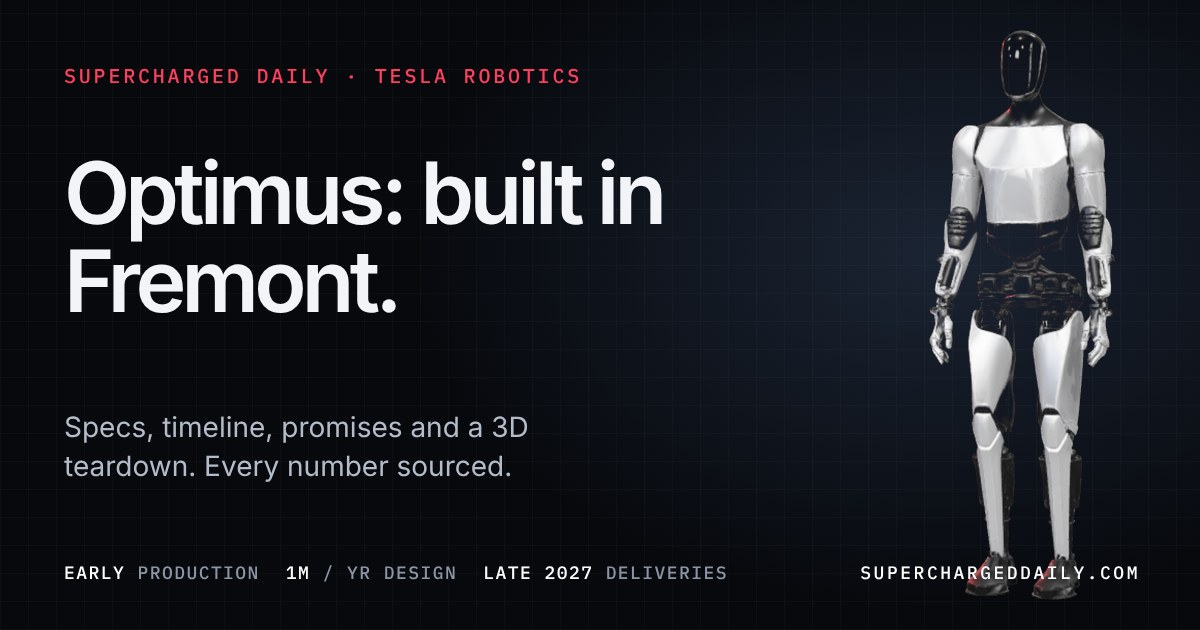
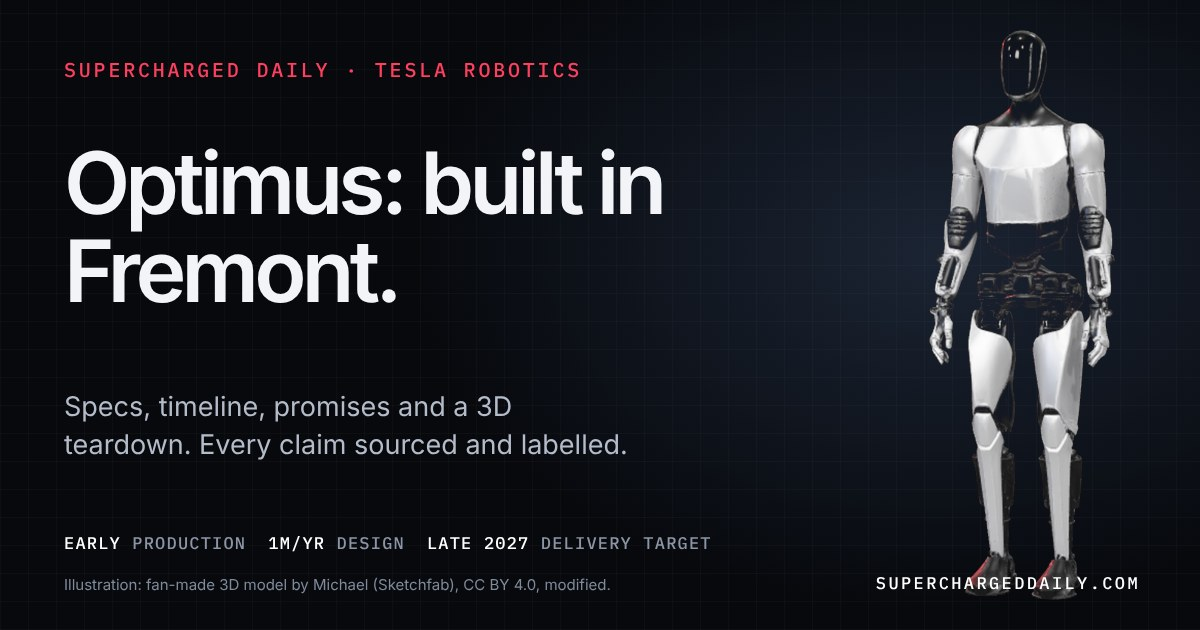
Optimus PR 3 review fixes: print-safe reveals, honest share card, site font token
- Scroll reveals are screen-only with a print override; printed page has all 3,752 words again.
- Share card labels the delivery date as a target, says the robot is a fan-made model with credit,
  uses the page's wording; template committed (scripts/optimus-og-card.html) and hash in provenance.
- Use the site --font token (drops a duplicate Inter Fallback face); drop the progress line
  (site already has a scroll beam; it overflowed the chapter bar).

Claude-Session: https://claude.ai/code/session_01CyAz74kttZ4YNjojC9Ss6K

diff --git a/optimus-studio.css b/optimus-studio.css
@@ -1,5 +1,5 @@
 /* Optimus: page-scoped studio, retaining shared site navigation and identity. */
-.os{--os-bg:#080a0e;--os-card:#10141c;--os-text:#f3f4f7;--os-muted:#a6aeba;--os-line:#29303b;--os-red:#ff3e60;--os-mono:'IBM Plex Mono',monospace;color:var(--os-text);background:var(--os-bg);font-family:Inter,"Inter Fallback",sans-serif;margin:24px auto 0;max-width:1440px;border:1px solid var(--os-line);border-radius:26px;overflow:clip;line-height:1.65}.os *{box-sizing:border-box}.os [hidden]{display:none!important}.os a{color:inherit;text-underline-offset:4px}.os button,.os input,.os select{font:inherit}.os button,.os select,.os summary{cursor:pointer}.os button{color:inherit}.os :is(a,button,input,select,summary):focus-visible{outline:3px solid #ff7992;outline-offset:5px}.os p{margin:0 0 1.1em}.os h1,.os h2,.os h3,.os h4{color:inherit;margin:0;font-family:Inter,"Inter Fallback",sans-serif;letter-spacing:-.045em;line-height:1.1}.os h2{font-size:clamp(2rem,4.5vw,4.2rem);font-weight:600;max-width:950px}.os h3{font-size:clamp(1.2rem,2.6vw,2rem);font-weight:600}.os h4{font-size:1rem;letter-spacing:-.015em;margin:26px 0 9px}.os p{color:var(--os-muted)}.os-kicker{font-family:var(--os-mono);font-size:.68rem;line-height:1.8;letter-spacing:.11em;text-transform:uppercase;color:var(--os-red)!important}.os-caption{font-size:.76rem;line-height:1.7;color:var(--os-muted)}.os picture{display:block}.os img{display:block;width:100%;height:auto}.os-section{padding:92px 6%;scroll-margin-top:100px;border-bottom:1px solid var(--os-line)}.os-section-head{margin-bottom:44px}.os-section-head>p:last-child{max-width:740px;margin-top:23px;font-size:1.03rem;line-height:1.8}.os-hero{min-height:780px;position:relative;padding:140px 6% 38px;isolation:isolate;background:#070a10;overflow:hidden}.os-hero-type{position:absolute;top:-.03em;left:4.8%;right:4.8%;text-align:center;font-size:clamp(5rem,16vw,220px);font-weight:600;line-height:1.08;letter-spacing:.015em;color:transparent;-webkit-text-stroke:2px #5c6573;opacity:1;z-index:-1}.os-hero-copy{position:relative;z-index:2;width:52%;max-width:610px;padding-top:88px}.os-hero h1{font-size:clamp(2.6rem,5.3vw,5rem);font-weight:500;line-height:1.05;letter-spacing:-.065em}.os-intro{max-width:460px;font-size:1.02rem;line-height:1.8;margin-top:26px!important}.os-actions{display:flex;align-items:center;gap:24px;flex-wrap:wrap;margin:30px 0}.os-button{background:#d6153d;color:#fff!important;display:inline-flex;justify-content:space-between;align-items:center;gap:24px;min-height:50px;padding:12px 20px;border-radius:8px;text-decoration:none;font-size:.84rem;font-weight:600;border:1px solid #f64667;transition:background .2s,transform .2s}.os-button:hover{background:#c70d33;transform:translateY(-2px)}.os-text-link{font-size:.84rem;font-weight:500}.os-hero-robot{position:absolute;z-index:0;right:1%;top:160px;width:48%;height:570px;margin:0}.os-hero-robot picture,.os-hero-robot img{height:100%}.os-hero-robot img{object-fit:cover;mix-blend-mode:lighten}.os-hero-robot figcaption{font-family:var(--os-mono);font-size:.59rem;line-height:1.5;color:#adb5c1;position:absolute;bottom:0;right:0;max-width:190px}.os-hero-bottom{display:flex;justify-content:space-between;align-items:end;margin-top:80px;position:relative;z-index:2;font-family:var(--os-mono);font-size:.62rem;line-height:1.6;color:#8f99a8;letter-spacing:.04em}.os-hero-bottom>a{display:grid;place-items:center;border:1px solid #414956;border-radius:50%;width:42px;height:42px;text-decoration:none;font-size:1.5rem}.os-hero-bottom>span:last-child{text-align:right}.os-chapters{display:flex;position:sticky;top:78px;z-index:8;background:#0d1119f5;backdrop-filter:blur(16px);border-block:1px solid var(--os-line);overflow-x:auto;padding:0 5%;scrollbar-width:thin}.os-chapters a{flex:1;white-space:nowrap;padding:22px 13px;text-align:center;text-decoration:none;font-size:.77rem;border-bottom:2px solid transparent}.os-chapters a:hover,.os-chapters a[aria-current]{border-color:var(--os-red);color:#fff}.os-chapters small{font-family:var(--os-mono);font-size:.58rem;color:var(--os-muted);margin-right:6px}.os-refs{font-size:.7rem!important;line-height:1.8;margin-top:20px!important}.os-refs a{color:#b9c2d0}.os-anatomy{display:grid;grid-template-columns:1fr 1.1fr;border:1px solid var(--os-line);border-radius:18px;background:linear-gradient(130deg,#141b26,#0c1017 50%);overflow:hidden}.os-anatomy-visual{position:relative;min-height:780px;align-self:start}.os-anatomy-visual picture,.os-anatomy-visual img{height:740px}.os-anatomy-visual img{object-fit:cover;mix-blend-mode:lighten}.os-anatomy-visual>.os-caption{position:absolute;bottom:6px;left:26px;right:26px;font-size:.65rem}.os-hotspots{position:absolute;inset:0 0 40px}.os-hotspots button{position:absolute;left:var(--x);top:var(--y);transform:translate(-50%,-50%);width:44px;height:44px;background:#171e2b;border:1px solid #b7c2d4;border-radius:50%;font-family:var(--os-mono);font-size:.75rem;box-shadow:0 0 0 6px #7b8ca022}.os-hotspots button[aria-pressed=true]{background:#e92148;border-color:#ff9db0;box-shadow:0 0 0 8px #f82b4d22}.os-anatomy-content{padding:28px;border-left:1px solid var(--os-line)}.os-system-tabs{display:grid;grid-template-columns:repeat(3,1fr);gap:7px;padding-bottom:32px}.os-system-tabs button{display:grid;gap:8px;text-align:left;border:1px solid #333d4d;background:#131a25;border-radius:7px;padding:12px;min-height:72px;font-size:.7rem}.os-system-tabs small{font-family:var(--os-mono);font-size:.6rem;color:#8e9aac}.os-system-tabs button[aria-pressed=true]{border-color:#ff5170;background:#301923}.os-system-panel{padding:12px 6px 20px}.os-system-panel h3{font-size:2.2rem;max-width:400px}.os-system-panel p{font-size:.88rem;line-height:1.8}.os-system-panel .os-lead{font-size:1rem;margin-top:18px;color:#d4d9e2}.os-boundary{border-left:2px solid var(--os-red);padding:13px 17px;margin-top:25px;background:#181d27}.os-boundary strong{font-size:.75rem}.os-boundary p{font-size:.75rem;margin:10px 0 0}.os-hand-section{background:radial-gradient(ellipse at 30% 60%,#1b222e,#0a0d13 65%)}.os-hand-grid{display:grid;grid-template-columns:1.15fr 1fr;gap:70px;align-items:center}.os-hand-art svg{display:block;width:100%;height:auto}.os-hand-art .os-caption{margin:15px 0 0 6%;font-size:.65rem}.os-hand-copy article{padding:24px 0;border-top:1px solid var(--os-line)}.os-hand-copy article>span{font-family:var(--os-mono);font-size:.65rem;color:var(--os-red)}.os-hand-copy article h3{font-size:1.5rem;margin:10px 0 13px}.os-hand-copy article p{font-size:.87rem}.os-cinema{display:grid;grid-template-columns:1.4fr 1fr;border:1px solid var(--os-line);border-radius:14px;overflow:hidden;margin-bottom:15px}.os-film-stage{position:relative;min-height:570px;background:#07090d}.os-film-cover{position:relative;height:100%;min-height:570px}.os-film-cover picture,.os-film-cover img{position:absolute;inset:0;height:100%;width:100%;object-fit:cover;object-position:50% 40%}.os-film-cover:after{content:'';position:absolute;inset:0;background:linear-gradient(0deg,#080c15 0%,#080c1580 50%,#080c1522 100%)}.os-film-cover>div{position:absolute;z-index:1;left:35px;right:30px;bottom:35px}.os-film-cover h3{font-size:2.7rem;margin-bottom:24px}.os-play{display:grid;place-items:center;width:74px;height:74px;border-radius:50%;border:1px solid #ffffff80;background:#ffffff20;backdrop-filter:blur(10px);font-size:1.3rem;margin-bottom:26px}.os-film-list{background:#131923;padding:15px 28px}.os-film-list article{padding:24px 0;border-bottom:1px solid var(--os-line)}.os-film-list article:last-child{border:0}.os-film-list button{background:transparent;border:0;text-align:left;width:100%;font-size:1.1rem;line-height:1.4;min-height:44px;padding:0 0 12px;display:grid;grid-template-columns:30px 1fr;gap:5px}.os-film-list button span{font-family:var(--os-mono);font-size:.66rem;padding-top:6px;color:#929fb1}.os-film-list button small{grid-column:2;font-family:var(--os-mono);color:#8793a7;font-size:.65rem}.os-film-list button[aria-pressed=true]{color:#ff7791}.os-film-list p{font-size:.78rem;margin:12px 0}.os-film-list .os-caption{font-size:.69rem}.os-film-stage iframe{position:absolute;inset:0;width:100%;height:100%;border:0}.os-film-stage.os-playing{min-height:400px}.os-reliability{background:linear-gradient(120deg,#1b1220,#101620)}.os-reliability-grid{display:grid;grid-template-columns:1.3fr 1fr;gap:70px}.os-calculator-controls{display:flex;gap:18px}.os label{font-family:var(--os-mono);font-size:.65rem;color:#ccd3df;display:grid;gap:8px}.os select,.os input{width:100%;min-height:48px;background:#101722;color:#eef1f6;border:1px solid #495468;border-radius:7px;padding:11px 13px;min-width:0}.os-result{display:flex;gap:25px;align-items:center;margin:28px 0!important}.os-result output{font-size:clamp(3.2rem,6vw,5rem);color:#fff;line-height:1;letter-spacing:-.07em}.os-result span{font-size:.8rem;max-width:130px}.os-sequence{display:flex;gap:3px;min-height:50px;margin-bottom:18px}.os-sequence i{flex:1;background:rgba(255,62,96,var(--strength));border-radius:3px}.os-reliability-grid>div:last-child h3{margin-bottom:25px;font-size:1.8rem}.os-reliability-grid>div:last-child p{font-size:.93rem}.os-gallery{display:grid;grid-template-columns:repeat(2,1fr);gap:45px 26px}.os-gallery figure{margin:0;min-width:0}.os-gallery figure>a{display:block;position:relative;overflow:hidden;border:1px solid var(--os-line);border-radius:12px;background:#11151e}.os-gallery img{height:470px;object-fit:cover;transition:transform .6s}.os-gallery figure:first-child img{object-fit:cover}.os-gallery figure:nth-child(2) img{object-fit:contain}.os-gallery a:hover img{transform:scale(1.025)}.os-gallery figure>a>span{position:absolute;right:18px;top:18px;width:38px;height:38px;display:grid;place-items:center;border-radius:50%;background:#0b111cbb;border:1px solid #b4becc}.os-gallery figcaption{padding:20px 5px 0}.os-gallery h3{font-size:1.2rem;margin-bottom:12px}.os-gallery p{font-size:.8rem}.os-gallery .os-caption{font-size:.68rem}.os-filters{display:grid;grid-template-columns:2fr 1fr auto;gap:16px;align-items:end;margin-bottom:20px}.os-small-button{background:#192230;border:1px solid #495468;padding:10px 18px;border-radius:7px;min-height:48px;font-size:.75rem!important}.os-demo{border-top:1px solid var(--os-line);scroll-margin-top:160px}.os-demo:last-child{border-bottom:1px solid var(--os-line)}.os-demo>summary{display:grid;grid-template-columns:95px 1fr 180px;gap:24px;align-items:center;padding:27px 34px 27px 0;position:relative;list-style:none}.os summary::-webkit-details-marker{display:none}.os-demo>summary:after,.os-faq summary:after{content:'+';position:absolute;right:5px;color:var(--os-red);font-size:1.4rem;font-weight:400}.os details[open]>summary:after{content:'−'}.os-demo time{font-family:var(--os-mono);font-size:.67rem;color:#aab5c6}.os-demo summary strong{font-size:1rem;font-weight:500;letter-spacing:-.02em}.os-demo summary small{display:block;font-size:.73rem;color:var(--os-muted);margin-top:6px}.os-tag{border:1px solid #4b5668;border-radius:6px;padding:7px 10px;font-family:var(--os-mono);font-size:.58rem;line-height:1.7}.os-control-company_autonomy{color:#a5dcd1;border-color:#355d5c}.os-control-human_assistance,.os-control-mixed_reported{color:#f1c789;border-color:#655239}.os-demo-body{display:grid;grid-template-columns:1fr 1fr;gap:20px 40px;padding:0 35px 26px 119px}.os-demo-body h3{font-size:.78rem;letter-spacing:0;margin:4px 0 12px}.os-demo-body p{font-size:.85rem}.os-demo-body .os-refs{grid-column:1/-1}.os-no-results{padding:30px;background:#161c26;border-radius:8px}.os-faq details{border-top:1px solid var(--os-line)}.os-faq summary{list-style:none;font-size:1.12rem;padding:27px 40px 27px 0;position:relative;letter-spacing:-.02em}.os-faq details>div{max-width:850px;padding:0 0 25px}.os-faq details p{font-size:.92rem}.os-sources{border-bottom:0;padding-bottom:0}.os-sources>details{border-block:1px solid var(--os-line);padding:25px 0}.os-sources>details>summary{font-family:var(--os-mono);font-size:.8rem}.os-sources ol{display:grid;grid-template-columns:1fr 1fr;gap:35px;padding:35px 0 0;list-style:none}.os-sources li small{color:var(--os-red);font-family:var(--os-mono);font-size:.61rem;text-transform:uppercase}.os-sources li h3{font-size:.93rem;line-height:1.6;margin:8px 0}.os-sources li p{font-size:.76rem}.os-end{padding:75px 0 80px}.os-end h2{font-size:2.9rem}.os-lightbox{width:min(1150px,95vw);max-height:94dvh;overflow:auto;background:#0c1119;color:#fff;border:1px solid #4c5668;border-radius:14px;padding:24px}.os-lightbox::backdrop{background:#000d;backdrop-filter:blur(12px)}.os-lightbox button{min-height:44px;border:1px solid #4c5668;background:#18212f;border-radius:8px;padding:8px 15px;color:#fff}.os-lightbox>button{display:block;margin-left:auto}.os-lightbox-image img{height:66dvh;object-fit:contain;width:100%}.os-lightbox-caption{font-size:.8rem!important;max-width:900px}.os-lightbox>div:last-child{display:flex;justify-content:space-between;gap:15px}.os-enhanced .os-film-fallback{display:none}
+.os{--os-bg:#080a0e;--os-card:#10141c;--os-text:#f3f4f7;--os-muted:#a6aeba;--os-line:#29303b;--os-red:#ff3e60;--os-mono:'IBM Plex Mono',monospace;color:var(--os-text);background:var(--os-bg);font-family:var(--font);margin:24px auto 0;max-width:1440px;border:1px solid var(--os-line);border-radius:26px;overflow:clip;line-height:1.65}.os *{box-sizing:border-box}.os [hidden]{display:none!important}.os a{color:inherit;text-underline-offset:4px}.os button,.os input,.os select{font:inherit}.os button,.os select,.os summary{cursor:pointer}.os button{color:inherit}.os :is(a,button,input,select,summary):focus-visible{outline:3px solid #ff7992;outline-offset:5px}.os p{margin:0 0 1.1em}.os h1,.os h2,.os h3,.os h4{color:inherit;margin:0;font-family:var(--font);letter-spacing:-.045em;line-height:1.1}.os h2{font-size:clamp(2rem,4.5vw,4.2rem);font-weight:600;max-width:950px}.os h3{font-size:clamp(1.2rem,2.6vw,2rem);font-weight:600}.os h4{font-size:1rem;letter-spacing:-.015em;margin:26px 0 9px}.os p{color:var(--os-muted)}.os-kicker{font-family:var(--os-mono);font-size:.68rem;line-height:1.8;letter-spacing:.11em;text-transform:uppercase;color:var(--os-red)!important}.os-caption{font-size:.76rem;line-height:1.7;color:var(--os-muted)}.os picture{display:block}.os img{display:block;width:100%;height:auto}.os-section{padding:92px 6%;scroll-margin-top:100px;border-bottom:1px solid var(--os-line)}.os-section-head{margin-bottom:44px}.os-section-head>p:last-child{max-width:740px;margin-top:23px;font-size:1.03rem;line-height:1.8}.os-hero{min-height:780px;position:relative;padding:140px 6% 38px;isolation:isolate;background:#070a10;overflow:hidden}.os-hero-type{position:absolute;top:-.03em;left:4.8%;right:4.8%;text-align:center;font-size:clamp(5rem,16vw,220px);font-weight:600;line-height:1.08;letter-spacing:.015em;color:transparent;-webkit-text-stroke:2px #5c6573;opacity:1;z-index:-1}.os-hero-copy{position:relative;z-index:2;width:52%;max-width:610px;padding-top:88px}.os-hero h1{font-size:clamp(2.6rem,5.3vw,5rem);font-weight:500;line-height:1.05;letter-spacing:-.065em}.os-intro{max-width:460px;font-size:1.02rem;line-height:1.8;margin-top:26px!important}.os-actions{display:flex;align-items:center;gap:24px;flex-wrap:wrap;margin:30px 0}.os-button{background:#d6153d;color:#fff!important;display:inline-flex;justify-content:space-between;align-items:center;gap:24px;min-height:50px;padding:12px 20px;border-radius:8px;text-decoration:none;font-size:.84rem;font-weight:600;border:1px solid #f64667;transition:background .2s,transform .2s}.os-button:hover{background:#c70d33;transform:translateY(-2px)}.os-text-link{font-size:.84rem;font-weight:500}.os-hero-robot{position:absolute;z-index:0;right:1%;top:160px;width:48%;height:570px;margin:0}.os-hero-robot picture,.os-hero-robot img{height:100%}.os-hero-robot img{object-fit:cover;mix-blend-mode:lighten}.os-hero-robot figcaption{font-family:var(--os-mono);font-size:.59rem;line-height:1.5;color:#adb5c1;position:absolute;bottom:0;right:0;max-width:190px}.os-hero-bottom{display:flex;justify-content:space-between;align-items:end;margin-top:80px;position:relative;z-index:2;font-family:var(--os-mono);font-size:.62rem;line-height:1.6;color:#8f99a8;letter-spacing:.04em}.os-hero-bottom>a{display:grid;place-items:center;border:1px solid #414956;border-radius:50%;width:42px;height:42px;text-decoration:none;font-size:1.5rem}.os-hero-bottom>span:last-child{text-align:right}.os-chapters{display:flex;position:sticky;top:78px;z-index:8;background:#0d1119f5;backdrop-filter:blur(16px);border-block:1px solid var(--os-line);overflow-x:auto;padding:0 5%;scrollbar-width:thin}.os-chapters a{flex:1;white-space:nowrap;padding:22px 13px;text-align:center;text-decoration:none;font-size:.77rem;border-bottom:2px solid transparent}.os-chapters a:hover,.os-chapters a[aria-current]{border-color:var(--os-red);color:#fff}.os-chapters small{font-family:var(--os-mono);font-size:.58rem;color:var(--os-muted);margin-right:6px}.os-refs{font-size:.7rem!important;line-height:1.8;margin-top:20px!important}.os-refs a{color:#b9c2d0}.os-anatomy{display:grid;grid-template-columns:1fr 1.1fr;border:1px solid var(--os-line);border-radius:18px;background:linear-gradient(130deg,#141b26,#0c1017 50%);overflow:hidden}.os-anatomy-visual{position:relative;min-height:780px;align-self:start}.os-anatomy-visual picture,.os-anatomy-visual img{height:740px}.os-anatomy-visual img{object-fit:cover;mix-blend-mode:lighten}.os-anatomy-visual>.os-caption{position:absolute;bottom:6px;left:26px;right:26px;font-size:.65rem}.os-hotspots{position:absolute;inset:0 0 40px}.os-hotspots button{position:absolute;left:var(--x);top:var(--y);transform:translate(-50%,-50%);width:44px;height:44px;background:#171e2b;border:1px solid #b7c2d4;border-radius:50%;font-family:var(--os-mono);font-size:.75rem;box-shadow:0 0 0 6px #7b8ca022}.os-hotspots button[aria-pressed=true]{background:#e92148;border-color:#ff9db0;box-shadow:0 0 0 8px #f82b4d22}.os-anatomy-content{padding:28px;border-left:1px solid var(--os-line)}.os-system-tabs{display:grid;grid-template-columns:repeat(3,1fr);gap:7px;padding-bottom:32px}.os-system-tabs button{display:grid;gap:8px;text-align:left;border:1px solid #333d4d;background:#131a25;border-radius:7px;padding:12px;min-height:72px;font-size:.7rem}.os-system-tabs small{font-family:var(--os-mono);font-size:.6rem;color:#8e9aac}.os-system-tabs button[aria-pressed=true]{border-color:#ff5170;background:#301923}.os-system-panel{padding:12px 6px 20px}.os-system-panel h3{font-size:2.2rem;max-width:400px}.os-system-panel p{font-size:.88rem;line-height:1.8}.os-system-panel .os-lead{font-size:1rem;margin-top:18px;color:#d4d9e2}.os-boundary{border-left:2px solid var(--os-red);padding:13px 17px;margin-top:25px;background:#181d27}.os-boundary strong{font-size:.75rem}.os-boundary p{font-size:.75rem;margin:10px 0 0}.os-hand-section{background:radial-gradient(ellipse at 30% 60%,#1b222e,#0a0d13 65%)}.os-hand-grid{display:grid;grid-template-columns:1.15fr 1fr;gap:70px;align-items:center}.os-hand-art svg{display:block;width:100%;height:auto}.os-hand-art .os-caption{margin:15px 0 0 6%;font-size:.65rem}.os-hand-copy article{padding:24px 0;border-top:1px solid var(--os-line)}.os-hand-copy article>span{font-family:var(--os-mono);font-size:.65rem;color:var(--os-red)}.os-hand-copy article h3{font-size:1.5rem;margin:10px 0 13px}.os-hand-copy article p{font-size:.87rem}.os-cinema{display:grid;grid-template-columns:1.4fr 1fr;border:1px solid var(--os-line);border-radius:14px;overflow:hidden;margin-bottom:15px}.os-film-stage{position:relative;min-height:570px;background:#07090d}.os-film-cover{position:relative;height:100%;min-height:570px}.os-film-cover picture,.os-film-cover img{position:absolute;inset:0;height:100%;width:100%;object-fit:cover;object-position:50% 40%}.os-film-cover:after{content:'';position:absolute;inset:0;background:linear-gradient(0deg,#080c15 0%,#080c1580 50%,#080c1522 100%)}.os-film-cover>div{position:absolute;z-index:1;left:35px;right:30px;bottom:35px}.os-film-cover h3{font-size:2.7rem;margin-bottom:24px}.os-play{display:grid;place-items:center;width:74px;height:74px;border-radius:50%;border:1px solid #ffffff80;background:#ffffff20;backdrop-filter:blur(10px);font-size:1.3rem;margin-bottom:26px}.os-film-list{background:#131923;padding:15px 28px}.os-film-list article{padding:24px 0;border-bottom:1px solid var(--os-line)}.os-film-list article:last-child{border:0}.os-film-list button{background:transparent;border:0;text-align:left;width:100%;font-size:1.1rem;line-height:1.4;min-height:44px;padding:0 0 12px;display:grid;grid-template-columns:30px 1fr;gap:5px}.os-film-list button span{font-family:var(--os-mono);font-size:.66rem;padding-top:6px;color:#929fb1}.os-film-list button small{grid-column:2;font-family:var(--os-mono);color:#8793a7;font-size:.65rem}.os-film-list button[aria-pressed=true]{color:#ff7791}.os-film-list p{font-size:.78rem;margin:12px 0}.os-film-list .os-caption{font-size:.69rem}.os-film-stage iframe{position:absolute;inset:0;width:100%;height:100%;border:0}.os-film-stage.os-playing{min-height:400px}.os-reliability{background:linear-gradient(120deg,#1b1220,#101620)}.os-reliability-grid{display:grid;grid-template-columns:1.3fr 1fr;gap:70px}.os-calculator-controls{display:flex;gap:18px}.os label{font-family:var(--os-mono);font-size:.65rem;color:#ccd3df;display:grid;gap:8px}.os select,.os input{width:100%;min-height:48px;background:#101722;color:#eef1f6;border:1px solid #495468;border-radius:7px;padding:11px 13px;min-width:0}.os-result{display:flex;gap:25px;align-items:center;margin:28px 0!important}.os-result output{font-size:clamp(3.2rem,6vw,5rem);color:#fff;line-height:1;letter-spacing:-.07em}.os-result span{font-size:.8rem;max-width:130px}.os-sequence{display:flex;gap:3px;min-height:50px;margin-bottom:18px}.os-sequence i{flex:1;background:rgba(255,62,96,var(--strength));border-radius:3px}.os-reliability-grid>div:last-child h3{margin-bottom:25px;font-size:1.8rem}.os-reliability-grid>div:last-child p{font-size:.93rem}.os-gallery{display:grid;grid-template-columns:repeat(2,1fr);gap:45px 26px}.os-gallery figure{margin:0;min-width:0}.os-gallery figure>a{display:block;position:relative;overflow:hidden;border:1px solid var(--os-line);border-radius:12px;background:#11151e}.os-gallery img{height:470px;object-fit:cover;transition:transform .6s}.os-gallery figure:first-child img{object-fit:cover}.os-gallery figure:nth-child(2) img{object-fit:contain}.os-gallery a:hover img{transform:scale(1.025)}.os-gallery figure>a>span{position:absolute;right:18px;top:18px;width:38px;height:38px;display:grid;place-items:center;border-radius:50%;background:#0b111cbb;border:1px solid #b4becc}.os-gallery figcaption{padding:20px 5px 0}.os-gallery h3{font-size:1.2rem;margin-bottom:12px}.os-gallery p{font-size:.8rem}.os-gallery .os-caption{font-size:.68rem}.os-filters{display:grid;grid-template-columns:2fr 1fr auto;gap:16px;align-items:end;margin-bottom:20px}.os-small-button{background:#192230;border:1px solid #495468;padding:10px 18px;border-radius:7px;min-height:48px;font-size:.75rem!important}.os-demo{border-top:1px solid var(--os-line);scroll-margin-top:160px}.os-demo:last-child{border-bottom:1px solid var(--os-line)}.os-demo>summary{display:grid;grid-template-columns:95px 1fr 180px;gap:24px;align-items:center;padding:27px 34px 27px 0;position:relative;list-style:none}.os summary::-webkit-details-marker{display:none}.os-demo>summary:after,.os-faq summary:after{content:'+';position:absolute;right:5px;color:var(--os-red);font-size:1.4rem;font-weight:400}.os details[open]>summary:after{content:'−'}.os-demo time{font-family:var(--os-mono);font-size:.67rem;color:#aab5c6}.os-demo summary strong{font-size:1rem;font-weight:500;letter-spacing:-.02em}.os-demo summary small{display:block;font-size:.73rem;color:var(--os-muted);margin-top:6px}.os-tag{border:1px solid #4b5668;border-radius:6px;padding:7px 10px;font-family:var(--os-mono);font-size:.58rem;line-height:1.7}.os-control-company_autonomy{color:#a5dcd1;border-color:#355d5c}.os-control-human_assistance,.os-control-mixed_reported{color:#f1c789;border-color:#655239}.os-demo-body{display:grid;grid-template-columns:1fr 1fr;gap:20px 40px;padding:0 35px 26px 119px}.os-demo-body h3{font-size:.78rem;letter-spacing:0;margin:4px 0 12px}.os-demo-body p{font-size:.85rem}.os-demo-body .os-refs{grid-column:1/-1}.os-no-results{padding:30px;background:#161c26;border-radius:8px}.os-faq details{border-top:1px solid var(--os-line)}.os-faq summary{list-style:none;font-size:1.12rem;padding:27px 40px 27px 0;position:relative;letter-spacing:-.02em}.os-faq details>div{max-width:850px;padding:0 0 25px}.os-faq details p{font-size:.92rem}.os-sources{border-bottom:0;padding-bottom:0}.os-sources>details{border-block:1px solid var(--os-line);padding:25px 0}.os-sources>details>summary{font-family:var(--os-mono);font-size:.8rem}.os-sources ol{display:grid;grid-template-columns:1fr 1fr;gap:35px;padding:35px 0 0;list-style:none}.os-sources li small{color:var(--os-red);font-family:var(--os-mono);font-size:.61rem;text-transform:uppercase}.os-sources li h3{font-size:.93rem;line-height:1.6;margin:8px 0}.os-sources li p{font-size:.76rem}.os-end{padding:75px 0 80px}.os-end h2{font-size:2.9rem}.os-lightbox{width:min(1150px,95vw);max-height:94dvh;overflow:auto;background:#0c1119;color:#fff;border:1px solid #4c5668;border-radius:14px;padding:24px}.os-lightbox::backdrop{background:#000d;backdrop-filter:blur(12px)}.os-lightbox button{min-height:44px;border:1px solid #4c5668;background:#18212f;border-radius:8px;padding:8px 15px;color:#fff}.os-lightbox>button{display:block;margin-left:auto}.os-lightbox-image img{height:66dvh;object-fit:contain;width:100%}.os-lightbox-caption{font-size:.8rem!important;max-width:900px}.os-lightbox>div:last-child{display:flex;justify-content:space-between;gap:15px}.os-enhanced .os-film-fallback{display:none}
 @media(min-width:1600px){.os-hero-type{font-size:225px}}
 @media(max-width:1100px){.os-anatomy{grid-template-columns:.9fr 1.1fr}.os-anatomy-content{padding:20px}.os-system-tabs{grid-template-columns:repeat(2,1fr)}.os-hand-grid{gap:35px}.os-cinema{grid-template-columns:1fr 1fr}.os-film-list{padding-inline:20px}.os-hero-copy{width:56%}.os-hero-robot{width:48%;right:-2%}.os-reliability-grid{gap:35px}.os-gallery img{height:370px}}
 @media(max-width:700px){.os{margin-top:12px;border-radius:16px}.os-section{padding:62px 6%;scroll-margin-top:130px}.os-section-head{margin-bottom:30px}.os-section-head>p:last-child{font-size:.92rem}.os-hero{padding:50px 6% 25px;min-height:0;display:flex;flex-direction:column}.os-hero-type{top:18px;font-size:17vw;left:4%;right:4%;opacity:1}.os-hero-copy{width:100%;padding-top:375px;max-width:none}.os-hero h1{font-size:3rem}.os-hero-robot{top:81px;width:74%;height:355px;right:13%;z-index:0}.os-hero-robot figcaption{bottom:1px;right:-9%;max-width:140px;font-size:.5rem}.os-hero-robot img{object-fit:cover}.os-hero-copy>.os-kicker{font-size:.57rem}.os-hero-copy .os-intro{font-size:.93rem;margin-top:21px!important}.os-hero .os-actions{gap:20px;margin:25px 0}.os-hero-bottom{margin-top:30px;gap:15px;font-size:.52rem}.os-hero-bottom>span:last-child{display:none}.os-chapters{top:74px;padding:0 10px}.os-chapters a{padding:18px 13px;font-size:.68rem;min-height:54px}.os-chapters small{display:none}.os-anatomy{grid-template-columns:1fr}.os-anatomy-visual{min-height:530px}.os-anatomy-visual picture,.os-anatomy-visual img{height:500px}.os-anatomy-content{border-left:0;border-top:1px solid var(--os-line);padding:20px}.os-system-tabs{grid-template-columns:repeat(3,1fr);padding-bottom:22px}.os-system-tabs button{padding:10px;font-size:.61rem;min-height:74px}.os-system-panel h3{font-size:2rem}.os-system-panel p{font-size:.83rem}.os-hand-grid,.os-cinema,.os-reliability-grid{grid-template-columns:1fr;gap:28px}.os-film-stage,.os-film-cover{min-height:420px}.os-film-cover>div{left:25px;bottom:25px}.os-film-cover h3{font-size:2.1rem}.os-film-list{padding:0 24px}.os-film-list article{padding:22px 0}.os-film-stage.os-playing{min-height:230px;aspect-ratio:16/9}.os-gallery{gap:35px;grid-template-columns:1fr}.os-gallery img{height:430px}.os-gallery figure:nth-child(2) img{height:auto;aspect-ratio:16/9}.os-gallery figure:first-child img{height:310px}.os-filters{grid-template-columns:1fr 1fr}.os-filters label:first-child{grid-column:1/-1}.os-demo>summary{grid-template-columns:1fr;gap:10px;padding:22px 30px 22px 0}.os-demo summary strong{font-size:1.02rem}.os-tag{justify-self:start;font-size:.57rem}.os-demo-body{padding:0 15px 20px 0;grid-template-columns:1fr;gap:8px}.os-demo-body .os-refs{grid-column:auto}.os-sources ol{grid-template-columns:1fr;gap:24px}.os-faq summary{font-size:1rem}.os-end h2{font-size:2.2rem}.os-calculator-controls{gap:10px}.os-calculator-controls label{flex:1;font-size:.6rem}.os-result{gap:20px}.os-lightbox{padding:15px}.os-lightbox-image img{height:54dvh}.os-hand-art .os-caption{margin-left:0}}
@@ -332,20 +332,15 @@ html[data-theme=light] .os{color-scheme:dark}
 .os-3d>.os-caption{padding:12px 20px;margin:0;border-top:1px solid var(--os-line)}
 @media(max-width:700px){.os-3d-stage>img{height:300px;object-position:50% 38%;object-fit:cover}.os-3d-copy{grid-area:2/1;padding:4px 20px 22px;background:none}.os-3d-frame iframe{height:clamp(440px,calc(100svh - 150px),640px)}}
 
-/* ---- Craft: layout-shift-free fonts, reading progress, scroll reveals ---- */
-/* Arial scaled to Inter's metrics, so the headline wraps the same before and after the web font arrives. */
-@font-face{font-family:"Inter Fallback";src:local("Arial");size-adjust:107.4%;ascent-override:90.2%;descent-override:22.5%;line-gap-override:0%}
-.os-chapters{position:sticky}
-@supports(animation-timeline:scroll()){
- .os-chapters:after{content:'';position:absolute;left:0;right:0;bottom:-1px;height:2px;background:linear-gradient(90deg,#ff3e60,#ff8aa0);transform-origin:0 50%;transform:scaleX(0);animation:os-progress linear both;animation-timeline:scroll(root)}
- @keyframes os-progress{to{transform:scaleX(1)}}
-}
+/* ---- Craft: scroll reveals ---- */
+/* The site token --font already carries the metric-matched Inter fallbacks (styles.css). */
 @supports(animation-timeline:view()){
- @media(prefers-reduced-motion:no-preference){
-  .os-section-head,.os-metric,.os-rival,.os-promise,.os-event,.os-rival-tesla,.os-3d{animation:os-rise linear both;animation-timeline:view();animation-range:entry 0% entry 35%}
+ @media screen and (prefers-reduced-motion:no-preference){
+  .os-section-head,.os-rival,.os-promise,.os-event,.os-rival-tesla,.os-3d{animation:os-rise linear both;animation-timeline:view();animation-range:entry 0% entry 35%}
   @keyframes os-rise{from{opacity:0;transform:translateY(20px)}to{opacity:1;transform:none}}
  }
 }
+@media print{.os-section-head,.os-rival,.os-promise,.os-event,.os-rival-tesla,.os-3d{animation:none!important;opacity:1!important;transform:none!important}}
 @media(max-width:900px){
  .os-anatomy{grid-template-columns:1fr}
  .os-anatomy-content{border-left:0;border-top:1px solid var(--os-line)}

diff --git a/scripts/optimus-og-card.html b/scripts/optimus-og-card.html
@@ -1,0 +1,19 @@
+<!doctype html><meta charset="utf-8"><!--
+Template for assets/og-optimus.jpg (1200x630). Not run in CI; regenerate when the headline facts change.
+1. Render the robot: open /optimus-viewer.html?debug in Chromium (software WebGL is fine), hide the UI and the scene floor,
+   frame the full body, screenshot at 2x, crop to the robot's bounds and resize to 600px tall as .tmp-og/robot.png.
+2. Serve the repo root, open this file at http://localhost:4173/scripts/optimus-og-card.html at 1200x630, screenshot to a JPEG.
+The robot is Michael's CC BY 4.0 Sketchfab model (see assets/3d/optimus-provenance.json); the card says so.
+--><link rel="stylesheet" href="/styles.css"><style>
+html,body{margin:0;background:#050506}
+.c{position:relative;width:1200px;height:630px;overflow:hidden;font-family:Inter,sans-serif;color:#f3f4f7;background:radial-gradient(70% 90% at 78% 40%,#1b2433 0%,#07090d 62%)}
+.c img{position:absolute;right:70px;top:15px;height:600px;mix-blend-mode:lighten}
+.g{position:absolute;inset:0;background:repeating-linear-gradient(0deg,#ffffff06 0 1px,transparent 1px 28px),repeating-linear-gradient(90deg,#ffffff06 0 1px,transparent 1px 28px)}
+.t{position:absolute;left:64px;top:56px;font:500 20px 'IBM Plex Mono',monospace;letter-spacing:.14em;color:#ff3e60;text-transform:uppercase}
+h1{position:absolute;left:64px;top:140px;margin:0;width:640px;font-size:86px;line-height:1.02;letter-spacing:-.055em;font-weight:600}
+p{position:absolute;left:64px;top:388px;margin:0;width:580px;font-size:27px;line-height:1.4;color:#b4bcc9}
+.f{position:absolute;left:64px;bottom:76px;display:flex;gap:22px;font:500 17px 'IBM Plex Mono',monospace;letter-spacing:.07em;color:#8b95a5;text-transform:uppercase}
+.f b{color:#fff;font-weight:500}
+.n{position:absolute;left:64px;bottom:36px;font:400 15px Inter,sans-serif;color:#7f8a9b}
+.r{position:absolute;right:60px;bottom:36px;font:500 17px 'IBM Plex Mono',monospace;letter-spacing:.14em;color:#fff}
+</style><div class="c"><div class="g"></div><img src="/.tmp-og/robot.png" alt=""><div class="t">Supercharged Daily · Tesla robotics</div><h1>Optimus: built in Fremont.</h1><p>Specs, timeline, promises and a 3D teardown. Every claim sourced and labelled.</p><div class="f"><span><b>Early</b> production</span><span><b>1M/yr</b> design</span><span><b>Late 2027</b> delivery target</span></div><div class="n">Illustration: fan-made 3D model by Michael (Sketchfab), CC BY 4.0, modified.</div><div class="r">SUPERCHARGEDDAILY.COM</div></div>

diff --git a/optimus.html b/optimus.html
@@ -13,14 +13,14 @@
     <meta property="og:description" content="What Tesla has shown of Optimus, what it has promised, and what remains a target. Sourced." />
     <meta property="og:url" content="https://superchargeddaily.com/optimus.html" />
     <meta property="og:image" content="https://superchargeddaily.com/assets/og-optimus.jpg" />
-    <meta property="og:image:alt" content="Optimus: built in Fremont. A sourced guide to Tesla’s humanoid robot, with a 3D model of the robot beside the headline" />
+    <meta property="og:image:alt" content="Share card: Optimus, built in Fremont. Early production, 1 million a year design capacity, late-2027 delivery target. Illustration of a fan-made 3D Optimus model." />
     <meta name="twitter:card" content="summary_large_image" />
     <meta name="twitter:site" content="@ALJR86" />
     <meta name="twitter:creator" content="@ALJR86" />
     <meta name="twitter:title" content="Tesla Optimus robot tracker | Supercharged Daily" />
     <meta name="twitter:description" content="What Tesla has shown of Optimus, what it has promised, and what remains a target. Sourced." />
     <meta name="twitter:image" content="https://superchargeddaily.com/assets/og-optimus.jpg" />
-    <meta name="twitter:image:alt" content="Optimus: built in Fremont. A sourced guide to Tesla’s humanoid robot, with a 3D model of the robot beside the headline" />
+    <meta name="twitter:image:alt" content="Share card: Optimus, built in Fremont. Early production, 1 million a year design capacity, late-2027 delivery target. Illustration of a fan-made 3D Optimus model." />
     <meta property="og:image:width" content="1200" />
     <meta property="og:image:height" content="630" />
     <link rel="icon" href="/favicon.ico" sizes="48x48" />
@@ -38,7 +38,7 @@
     <!-- /seo:ld -->
       <meta name="robots" content="index, follow, max-image-preview:large" />
       <link rel="alternate" type="application/rss+xml" title="Supercharged Daily" href="https://superchargeddaily.com/feed.xml" />
-    <link rel="stylesheet" href="/optimus-studio.css?v=2026102712" />
+    <link rel="stylesheet" href="/optimus-studio.css?v=2026102713" />
     <!--sd:members-->
     <link rel="stylesheet" href="/members.css?v=20261022" />
     <script type="module" src="/members.js?v=20261022"></script>

diff --git a/docs/changelog.md b/docs/changelog.md
@@ -2,9 +2,9 @@
 
 ## 27 Oct 2026 — Optimus guide: craft and speed (Optimus PR 3 of 3)
 
-- **Layout shift:** a metric-matched fallback font (Arial scaled to Inter) stops the headline re-wrapping when the web font loads. Mobile CLS 0.021 → 0.001.
-- **Share image:** a 1200x630 card for X and other previews ("Optimus: built in Fremont", the robot, three key facts) replaces a cropped investor-slide image.
-- **Motion:** a reading-progress line under the chapter bar and a gentle rise on section heads and cards, both CSS scroll-driven, only where supported, and off under reduced motion.
+- **Layout shift:** the page now uses the site's `--font` token, which already carries metric-matched Inter fallbacks, so the headline no longer re-wraps when the web font loads. Mobile CLS 0.021 → 0.001.
+- **Share image:** a 1200x630 card for X and other previews ("Optimus: built in Fremont", the robot, three key facts) replaces a cropped investor-slide image. It labels the delivery date as a target and credits the fan-made model; the template is `scripts/optimus-og-card.html`.
+- **Motion:** a gentle rise on section heads and cards, CSS scroll-driven, only where supported, off under reduced motion and always fully visible when printed. (A progress line under the chapter bar was dropped: the site already has a scroll beam.)
 - **Tablet:** below 900 px the X-ray stacks above its panel at full width, and the 3D launcher shows its text under the poster.
 - Measured (Lighthouse, mobile, served gzip-compressed as Cloudflare does): Performance 95, Accessibility 100, Best Practices 96, SEO 100, LCP 2.4 s, CLS 0.001, TBT 0. The Best Practices point is the Cloudflare analytics beacon failing on localhost. Desktop: 100 / 100 / 96 / 100.
 
